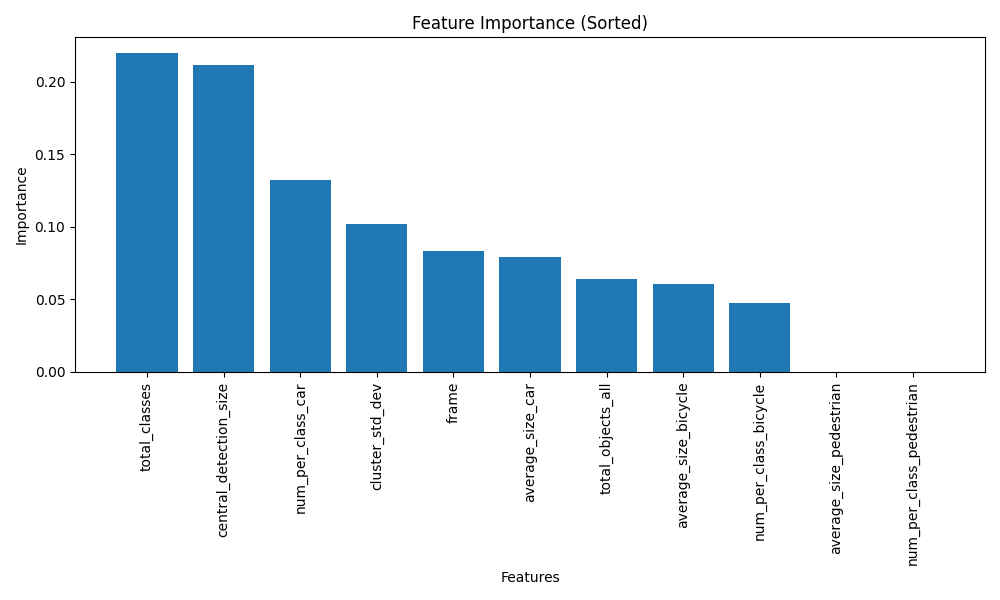
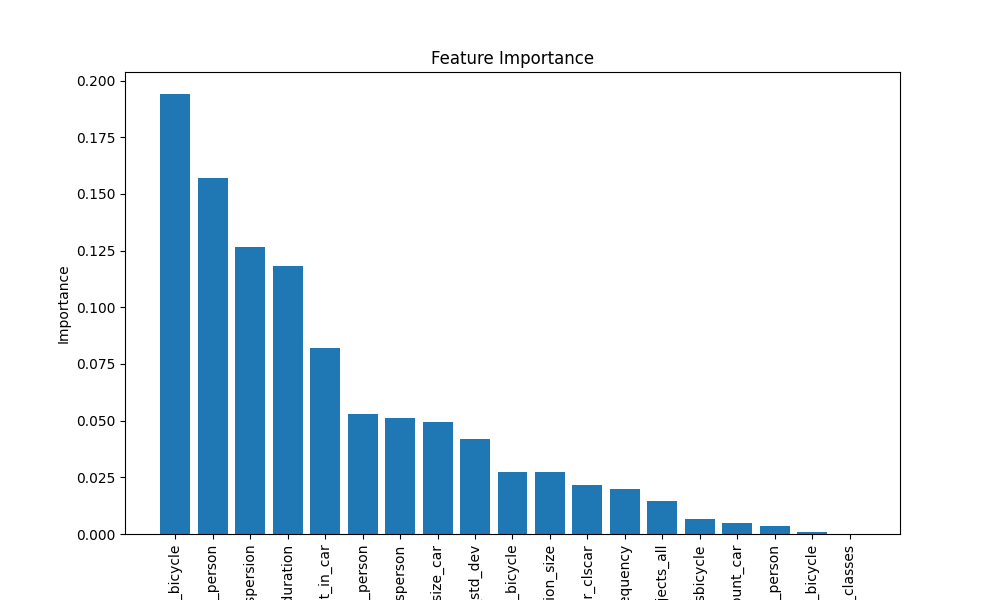
add balanced resampling

diff --git a/model/training_kfold.py b/model/training_kfold.py
@@ -1,0 +1,93 @@
+import pandas as pd
+import numpy as np
+import shap
+import matplotlib.pyplot as plt
+import os
+from sklearn.ensemble import RandomForestRegressor
+from sklearn.model_selection import KFold
+from sklearn.metrics import mean_absolute_error, mean_squared_error, r2_score
+from sklearn.preprocessing import StandardScaler
+
+# Create output directory
+output_dir = 'model/plots'
+os.makedirs(output_dir, exist_ok=True)
+
+# Load dataset
+features_df = pd.read_csv('model/features_dataset.csv')
+X = features_df.drop('label', axis=1)
+y = features_df['label']
+
+# Scale features
+scaler = StandardScaler()
+X_scaled = scaler.fit_transform(X)
+
+# Initialize model
+rf_model = RandomForestRegressor(n_estimators=2000, random_state=42)
+
+# K-Fold Cross-Validation
+kf = KFold(n_splits=5, shuffle=True, random_state=42)
+
+# Store metrics
+mae_scores, mse_scores, rmse_scores, r2_scores = [], [], [], []
+
+for fold, (train_idx, test_idx) in enumerate(kf.split(X_scaled), 1):
+    X_train, X_test = X_scaled[train_idx], X_scaled[test_idx]
+    y_train, y_test = y.iloc[train_idx], y.iloc[test_idx]
+    
+    rf_model.fit(X_train, y_train)
+    y_pred = rf_model.predict(X_test)
+    residuals = y_test - y_pred
+    
+    # Store metrics
+    mae_scores.append(mean_absolute_error(y_test, y_pred))
+    mse_scores.append(mean_squared_error(y_test, y_pred))
+    rmse_scores.append(np.sqrt(mse_scores[-1]))
+    r2_scores.append(r2_score(y_test, y_pred))
+    
+    # Plot Actual vs. Predicted with Residuals
+    plt.figure(figsize=(6, 5))
+    plt.scatter(y_test, y_pred, alpha=0.6, label='Predicted')
+    plt.axline([0, 0], slope=1, color='red', linestyle='--', label='Perfect Fit')
+    plt.xlabel('Actual Values')
+    plt.ylabel('Predicted Values')
+    plt.title(f'Fold {fold}: Actual vs. Predicted')
+    plt.legend()
+    plt.savefig(os.path.join(output_dir, f'fold_{fold}_actual_vs_predicted.png'))
+    plt.close()
+    
+    # Line Plot: Prediction vs. Ground Truth over Samples
+    plt.figure(figsize=(8, 5))
+    plt.plot(range(len(y_test)), y_test, label='Actual', marker='o')
+    plt.plot(range(len(y_test)), y_pred, label='Predicted', marker='s')
+    plt.xlabel('Sample Index')
+    plt.ylabel('Value')
+    plt.title(f'Fold {fold}: Prediction vs. Actual')
+    plt.legend()
+    plt.savefig(os.path.join(output_dir, f'fold_{fold}_prediction_vs_actual.png'))
+    plt.close()
+
+# Feature Importance
+importances = rf_model.feature_importances_
+sorted_idx = np.argsort(importances)[::-1]
+plt.figure(figsize=(10, 6))
+plt.bar(X.columns[sorted_idx], importances[sorted_idx])
+plt.xlabel("Features")
+plt.ylabel("Importance")
+plt.title("Feature Importance")
+plt.xticks(rotation=90)
+plt.savefig(os.path.join(output_dir, 'feature_importance.png'))
+plt.close()
+
+# SHAP Analysis
+explainer = shap.TreeExplainer(rf_model)
+shap_values = explainer.shap_values(X_scaled)
+shap.summary_plot(shap_values, X, show=False)
+plt.savefig(os.path.join(output_dir, 'shap_summary.png'))
+plt.close()
+
+# Print Results
+print("Cross-Validation Results (Average Across Folds):")
+print(f"Average MAE: {np.mean(mae_scores):.4f}")
+print(f"Average MSE: {np.mean(mse_scores):.4f}")
+print(f"Average RMSE: {np.mean(rmse_scores):.4f}")
+print(f"Average R²: {np.mean(r2_scores):.4f}")

diff --git a/model/training_resampling.py b/model/training_resampling.py
@@ -1,0 +1,87 @@
+import pandas as pd
+import numpy as np
+import shap
+import matplotlib.pyplot as plt
+import os
+from sklearn.ensemble import RandomForestRegressor
+from sklearn.metrics import mean_absolute_error, mean_squared_error, r2_score
+from sklearn.preprocessing import StandardScaler
+from sklearn.utils import resample
+
+# Create output directory
+output_dir = 'model/plots'
+os.makedirs(output_dir, exist_ok=True)
+
+# Load dataset
+features_df = pd.read_csv('model/features_dataset.csv')
+X = features_df.drop('label', axis=1)
+y = features_df['label']
+
+# Scale features
+scaler = StandardScaler()
+X_scaled = scaler.fit_transform(X)
+
+# Initialize model
+rf_model = RandomForestRegressor(n_estimators=2000, random_state=42)
+
+# Balance the dataset using resampling
+balanced_X, balanced_y = resample(X_scaled, y, replace=True, random_state=42)
+
+# Train the model on the balanced dataset
+rf_model.fit(balanced_X, balanced_y)
+y_pred = rf_model.predict(X_scaled)
+residuals = y - y_pred
+
+# Calculate metrics
+mae = mean_absolute_error(y, y_pred)
+mse = mean_squared_error(y, y_pred)
+rmse = np.sqrt(mse)
+r2 = r2_score(y, y_pred)
+
+# Plot Actual vs. Predicted with Residuals
+plt.figure(figsize=(6, 5))
+plt.scatter(y, y_pred, alpha=0.6, label='Predicted')
+plt.axline([0, 0], slope=1, color='red', linestyle='--', label='Perfect Fit')
+plt.xlabel('Actual Values')
+plt.ylabel('Predicted Values')
+plt.title('Actual vs. Predicted')
+plt.legend()
+plt.savefig(os.path.join(output_dir, 'actual_vs_predicted.png'))
+plt.close()
+
+# Line Plot: Prediction vs. Ground Truth over Samples
+plt.figure(figsize=(8, 5))
+plt.plot(range(len(y)), y, label='Actual', marker='o')
+plt.plot(range(len(y)), y_pred, label='Predicted', marker='s')
+plt.xlabel('Sample Index')
+plt.ylabel('Value')
+plt.title('Prediction vs. Actual')
+plt.legend()
+plt.savefig(os.path.join(output_dir, 'prediction_vs_actual.png'))
+plt.close()
+
+# Feature Importance
+importances = rf_model.feature_importances_
+sorted_idx = np.argsort(importances)[::-1]
+plt.figure(figsize=(10, 6))
+plt.bar(X.columns[sorted_idx], importances[sorted_idx])
+plt.xlabel("Features")
+plt.ylabel("Importance")
+plt.title("Feature Importance")
+plt.xticks(rotation=90)
+plt.savefig(os.path.join(output_dir, 'feature_importance.png'))
+plt.close()
+
+# SHAP Analysis
+explainer = shap.TreeExplainer(rf_model)
+shap_values = explainer.shap_values(X_scaled)
+shap.summary_plot(shap_values, X, show=False)
+plt.savefig(os.path.join(output_dir, 'shap_summary.png'))
+plt.close()
+
+# Print Results
+print("Model Performance on Balanced Dataset:")
+print(f"MAE: {mae:.4f}")
+print(f"MSE: {mse:.4f}")
+print(f"RMSE: {rmse:.4f}")
+print(f"R²: {r2:.4f}")
